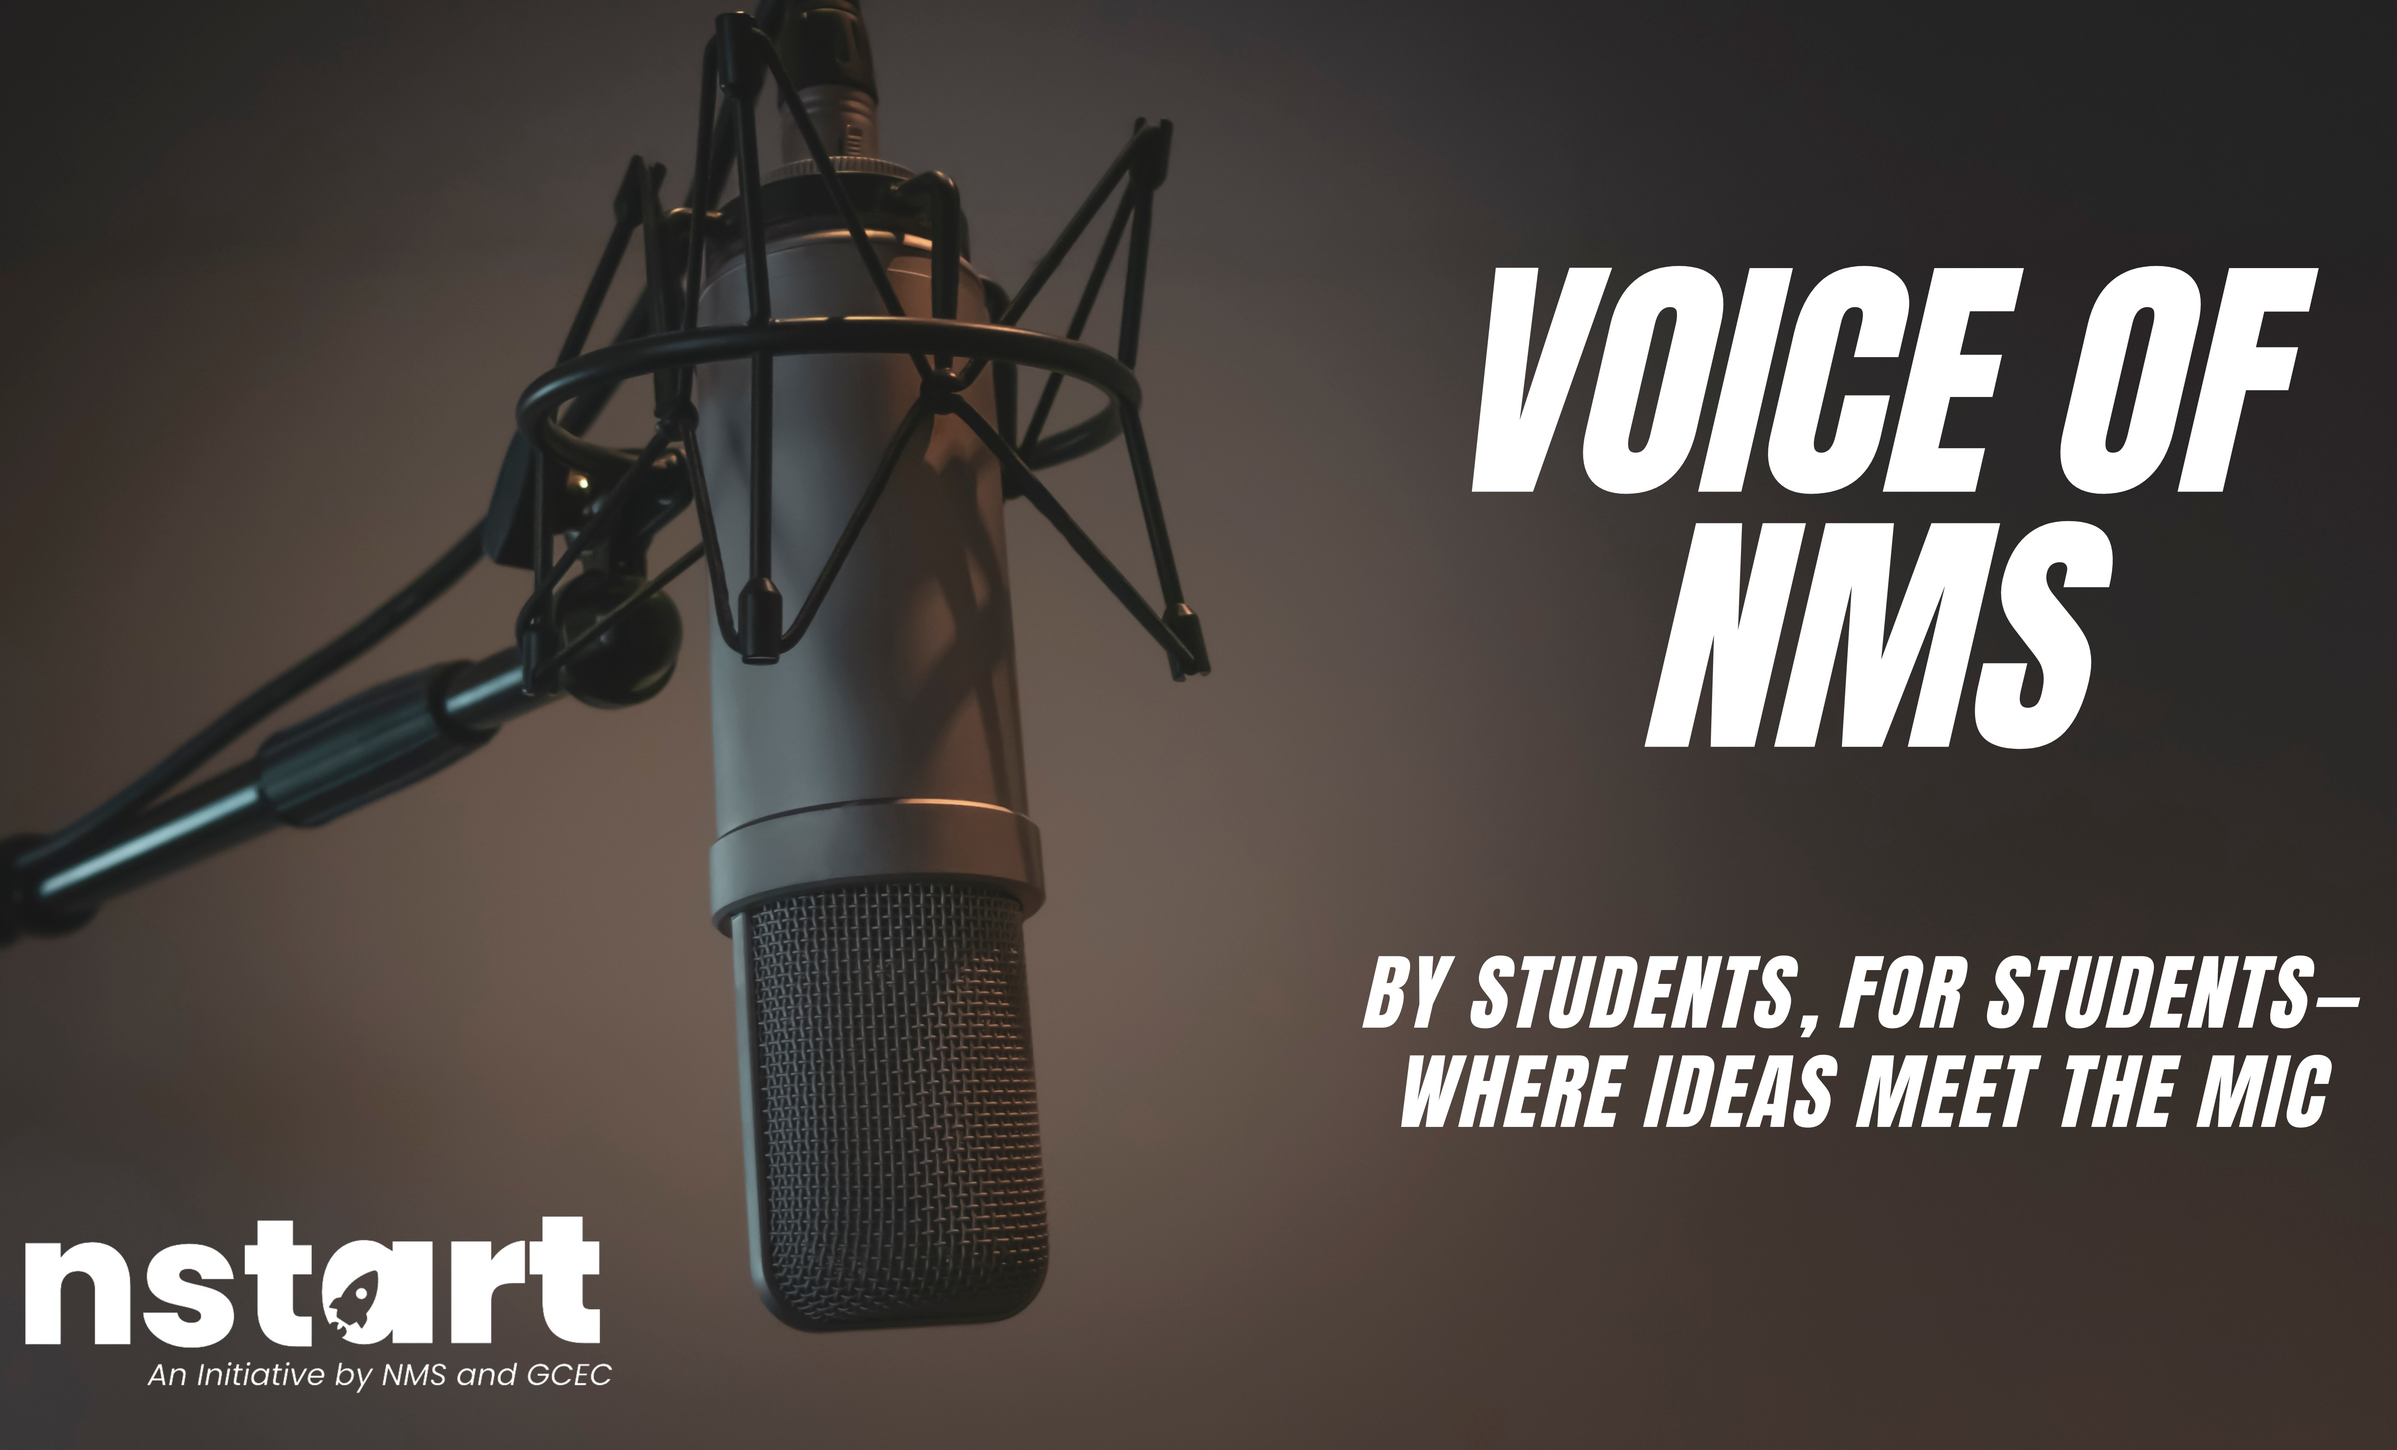
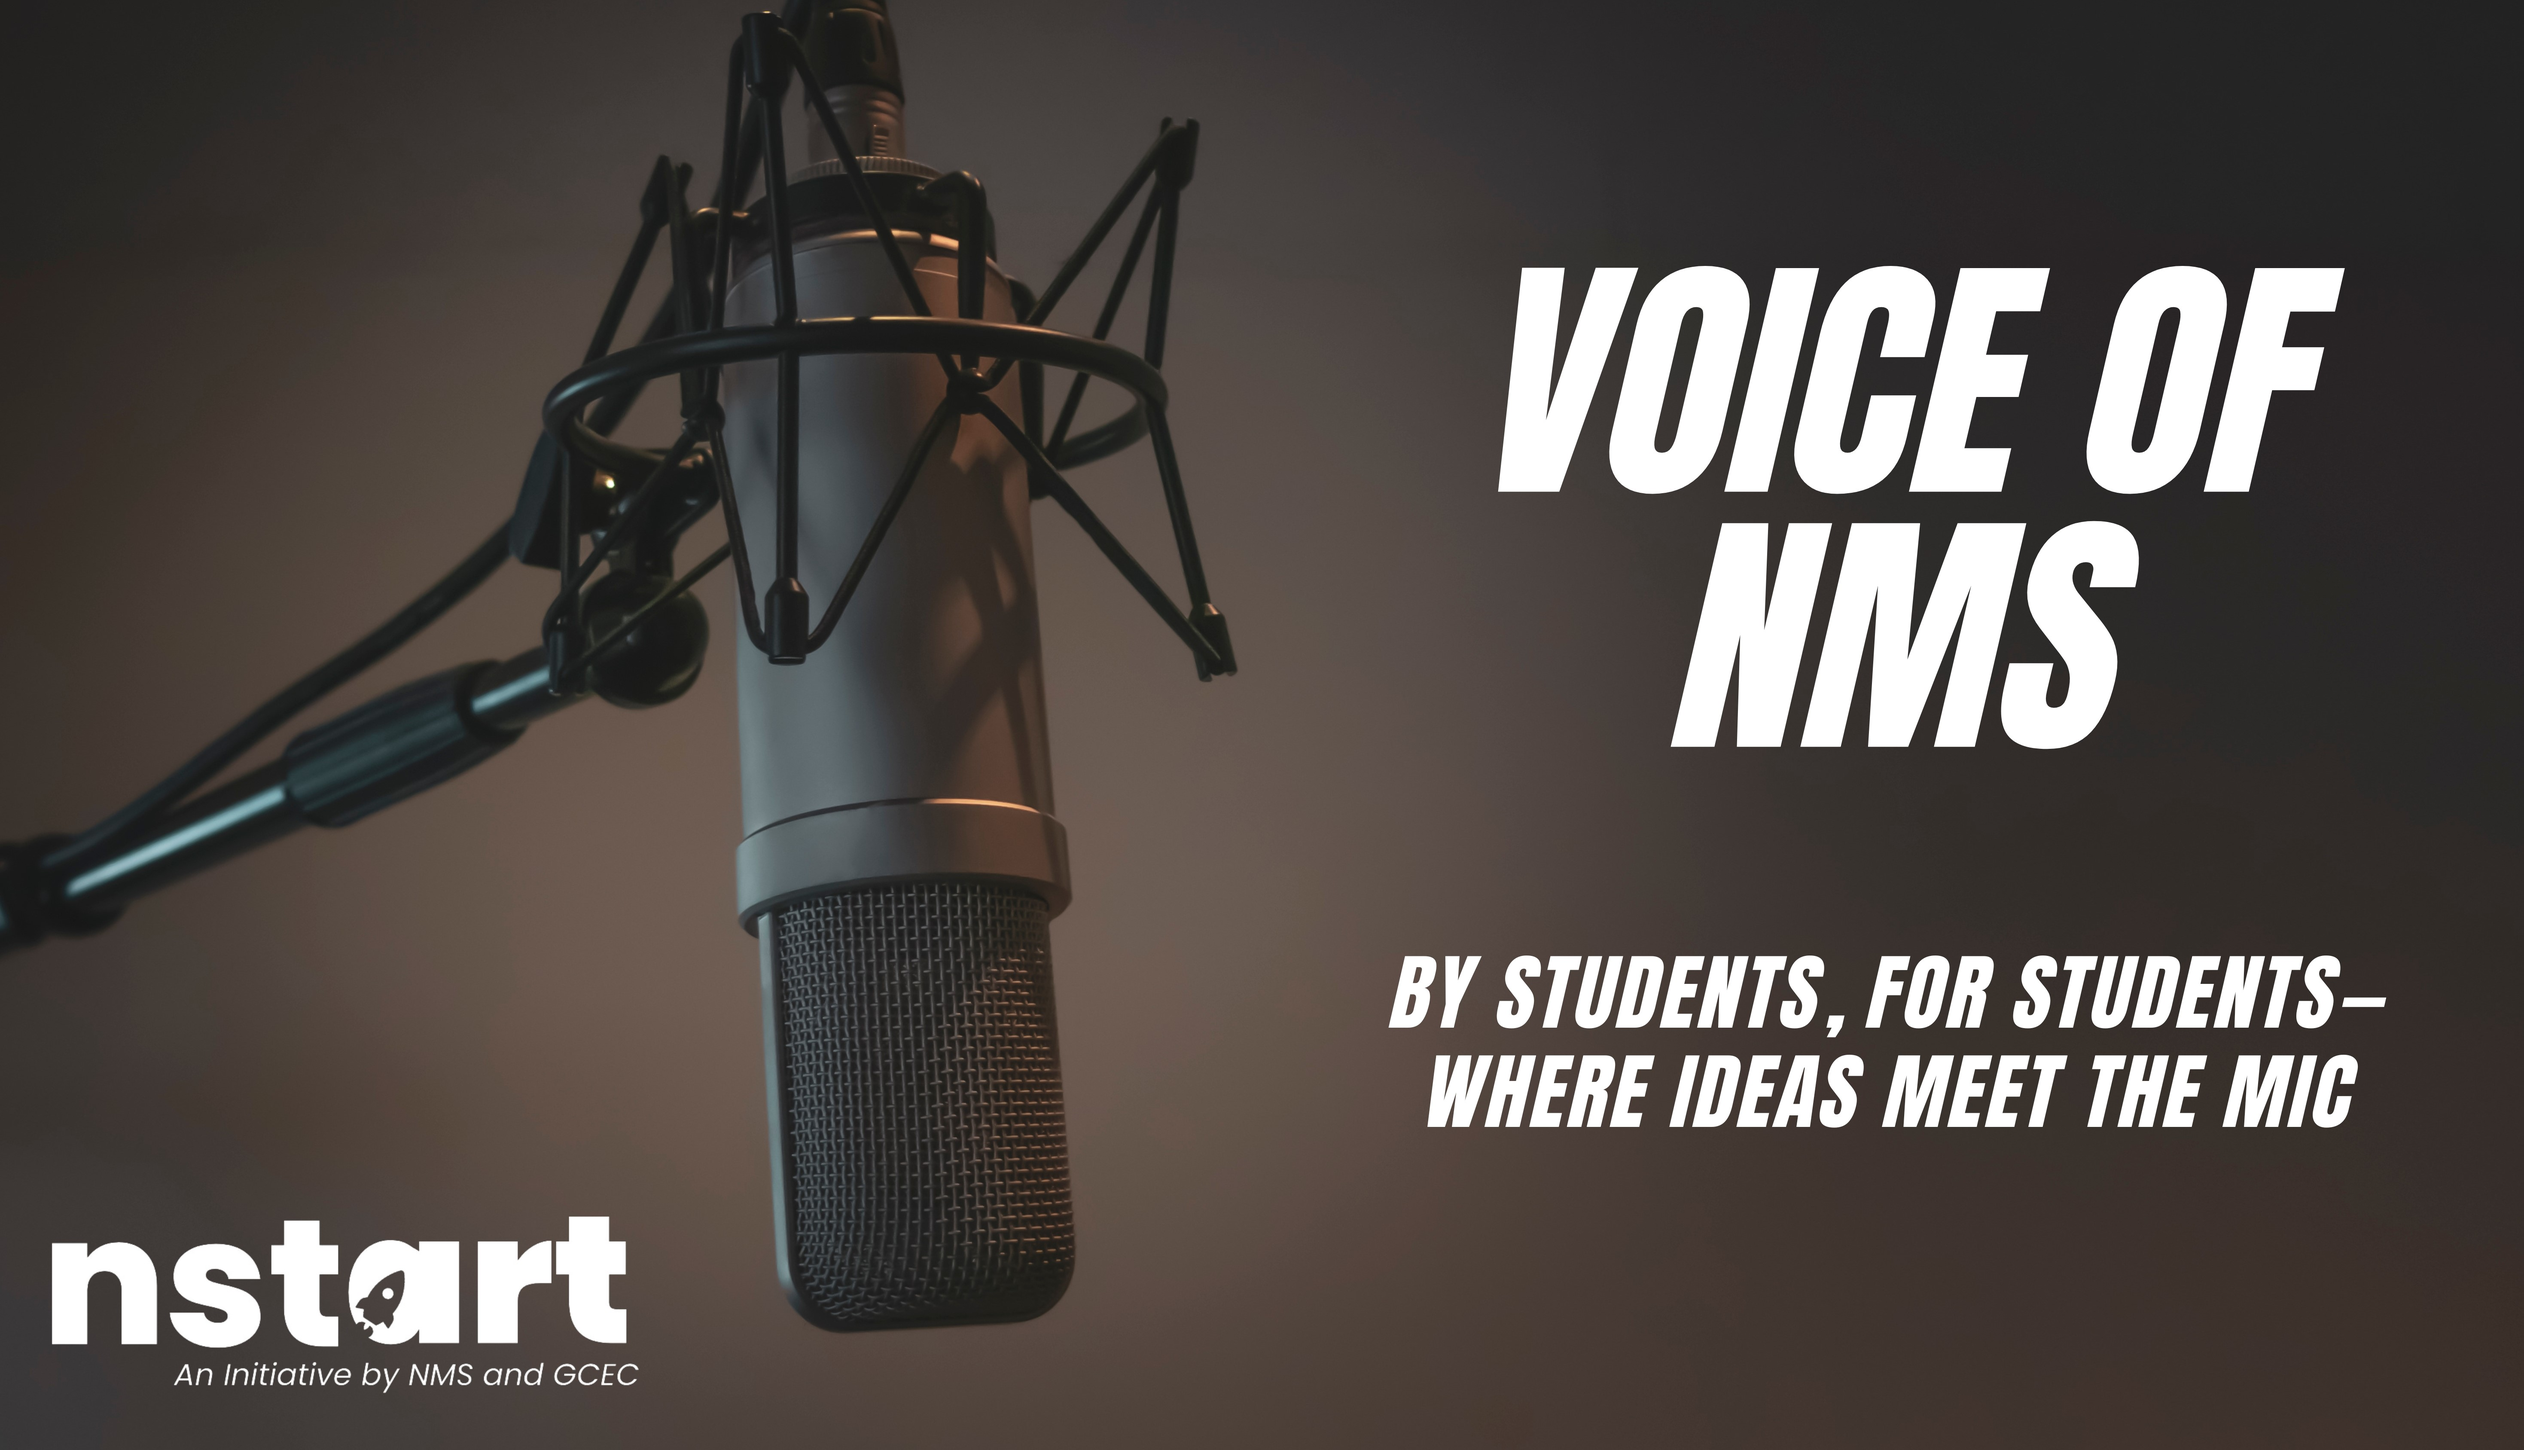
commit

diff --git a/our-highlights.html b/our-highlights.html
@@ -85,7 +85,7 @@
                     <section>
                      <i class="icon fas fa-home"></i>
                      <a href="./voice-of-nms.html" class="card">
-                       <img src="./images/voice-of-nms-cover-img.jpg" class="card__image" alt="" />
+                       <img style="width: 105%;" src="./images/voice-of-nms-cover-img.jpg" class="card__image" alt="" />
                        <div class="card__overlay">
                          <div class="card__header">
                            <svg class="card__arc" xmlns="http://www.w3.org/2000/svg"><path /></svg>                     
@@ -104,7 +104,7 @@
                     <section>
                       <i class="icon fas fa-home"></i>
                       <a href="./jcef.html" class="card">
-                        <img src="./images/jsef-cover-img2.jpg" class="card__image" alt="" />
+                        <img style="width: 110%;" src="./images/jsef-cover-img2.jpg" class="card__image" alt="" />
                         <div class="card__overlay">
                           <div class="card__header">
                             <svg class="card__arc" xmlns="http://www.w3.org/2000/svg"><path /></svg>                     
@@ -123,7 +123,7 @@
                     <section>
                       <i class="icon fas fa-home"></i>
                       <a href="./cohort-pages/cohort5.html" class="card">
-                        <img src="./images/finlab-cover-img1.jpg" class="card__image" alt="" />
+                        <img style="width: 104%;" src="./images/finlab-cover-img1.jpg" class="card__image" alt="" />
                         <div class="card__overlay">
                           <div class="card__header">
                             <svg class="card__arc" xmlns="http://www.w3.org/2000/svg"><path /></svg>                     

diff --git a/voice-of-nms.html b/voice-of-nms.html
@@ -54,7 +54,7 @@
             </p>
         </div>
         <div class="voice-container">
-            <div class="top-slider">
+            <!-- <div class="top-slider">
                 <button class="slider-arrow left" aria-label="Previous slide">&lt;</button>
                 <button class="slider-arrow right" aria-label="Next slide">&gt;</button>
                 <div class="slides">
@@ -76,7 +76,7 @@
                     <span class="slider-dot"></span>
                     <span class="slider-dot"></span>
                 </div>
-            </div>
+            </div> -->
             <div class="heading1" style="margin-top: 2rem;">
                 <h1>What we do?</h1>
                 <p style="width: 60%;margin-bottom: 2rem;">

diff --git a/css/style.css b/css/style.css
@@ -232,10 +232,10 @@ body{
 }
 
 .card__description {
-  padding-bottom: .8rem;
+  padding-bottom: 1.8rem;
   padding-left: 2rem;
   padding-right: 1rem;
-  padding-top: -6px;
+  padding-top: -12px;
   margin: 0;
   font-weight: 500;
   color: #000;
